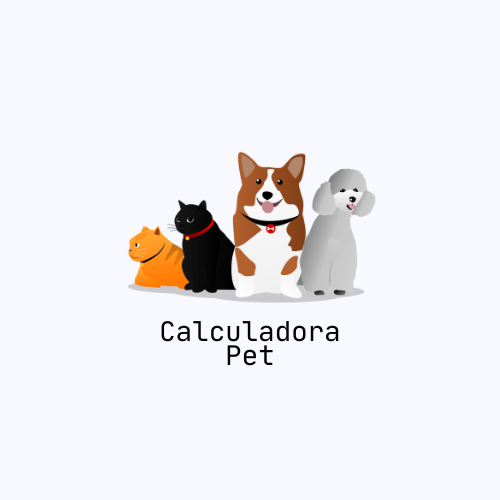
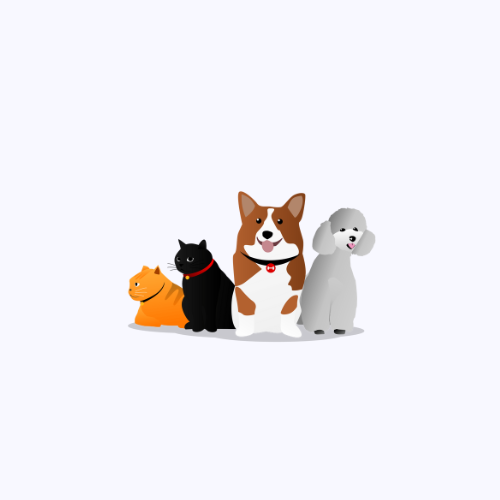
Chore: update packages. Feat: add new assets imgs

Changed region(s): [[0.24, 0.3, 0.75, 0.75]]

diff --git a/README.md b/README.md
@@ -19,7 +19,7 @@
 - Next.js
 - Docker
 - Docker-Compose
-- Zod and Rect Form Validation
+- Zod and React Hook Validation
 - Shadcn UI
 - RSuite JS UI
   
